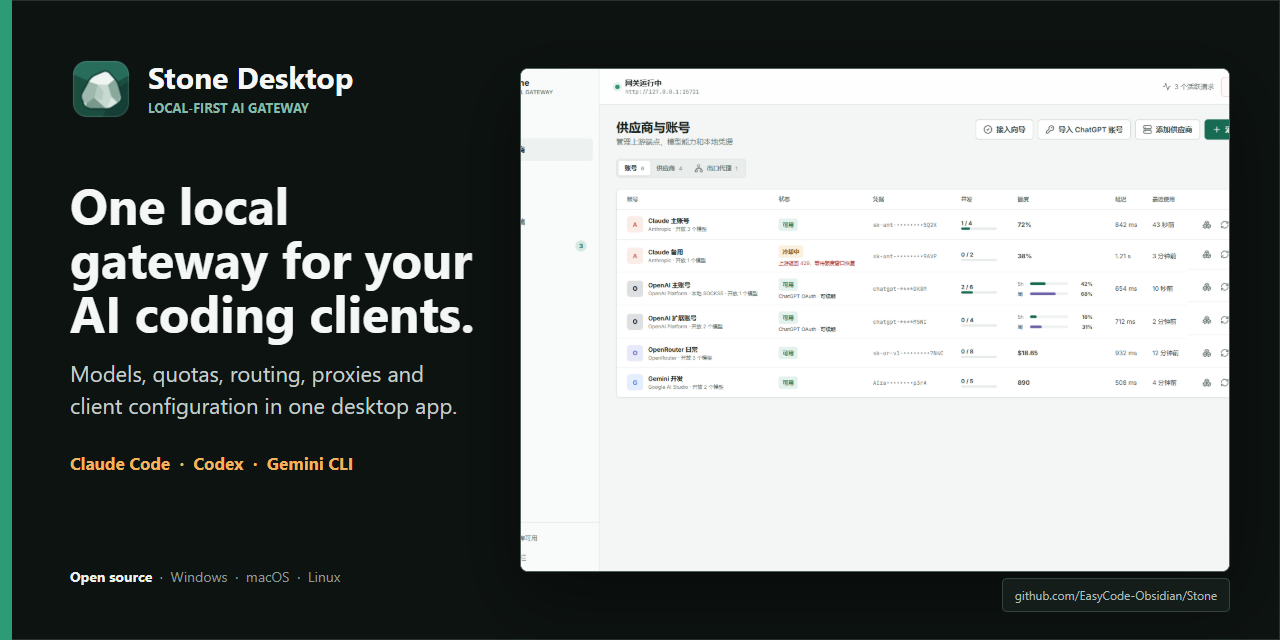
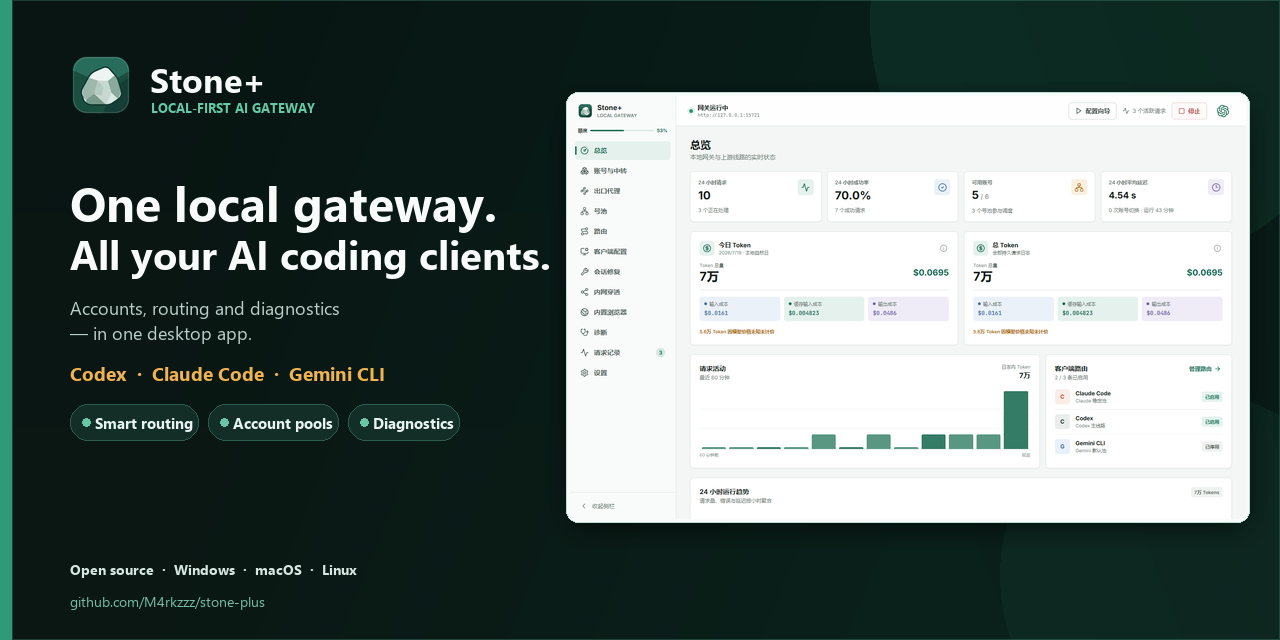
fix(docs): brand social preview as Stone+

diff --git a/scripts/generate-social-preview.py b/scripts/generate-social-preview.py
@@ -1,0 +1,136 @@
+"""Generate the Stone+ GitHub social preview from repository brand assets.
+
+Requires Pillow and writes docs/media/social-preview.png at 1280x640.
+"""
+
+from pathlib import Path
+
+from PIL import Image, ImageDraw, ImageFilter, ImageFont
+
+
+ROOT = Path(__file__).resolve().parents[1]
+OUTPUT = ROOT / "docs" / "media" / "social-preview.png"
+WIDTH, HEIGHT = 1280, 640
+
+
+def font(name: str, size: int) -> ImageFont.FreeTypeFont:
+    windows_fonts = Path("C:/Windows/Fonts")
+    candidates = {
+        "regular": [windows_fonts / "segoeui.ttf", windows_fonts / "msyh.ttc"],
+        "bold": [windows_fonts / "segoeuib.ttf", windows_fonts / "msyhbd.ttc"],
+    }[name]
+    for candidate in candidates:
+        if candidate.exists():
+            return ImageFont.truetype(str(candidate), size)
+    return ImageFont.load_default(size=size)
+
+
+def rounded_mask(size: tuple[int, int], radius: int) -> Image.Image:
+    mask = Image.new("L", size, 0)
+    ImageDraw.Draw(mask).rounded_rectangle((0, 0, size[0] - 1, size[1] - 1), radius, fill=255)
+    return mask
+
+
+def fit_inside(image: Image.Image, size: tuple[int, int]) -> Image.Image:
+    copy = image.copy()
+    copy.thumbnail(size, Image.Resampling.LANCZOS)
+    return copy
+
+
+def draw_pill(draw: ImageDraw.ImageDraw, xy: tuple[int, int], text: str) -> int:
+    text_font = font("bold", 15)
+    left, top = xy
+    bounds = draw.textbbox((0, 0), text, font=text_font)
+    width = bounds[2] - bounds[0] + 30
+    draw.rounded_rectangle(
+        (left, top, left + width, top + 36),
+        radius=18,
+        fill=(20, 48, 41, 230),
+        outline=(52, 112, 93, 180),
+        width=1,
+    )
+    draw.ellipse((left + 12, top + 14, left + 20, top + 22), fill="#69c5a4")
+    draw.text((left + 25, top + 8), text, font=text_font, fill="#e8f4ef")
+    return width
+
+
+def main() -> None:
+    canvas = Image.new("RGB", (WIDTH, HEIGHT), "#091512")
+    pixels = canvas.load()
+
+    # Subtle vertical gradient in Stone+'s deep green palette.
+    for y in range(HEIGHT):
+        blend = y / (HEIGHT - 1)
+        for x in range(WIDTH):
+            side_glow = max(0.0, 1.0 - abs(x - 930) / 760)
+            pixels[x, y] = (
+                int(8 + 3 * blend),
+                int(21 + 9 * side_glow + 3 * blend),
+                int(18 + 7 * side_glow + 2 * blend),
+            )
+
+    draw = ImageDraw.Draw(canvas, "RGBA")
+    draw.rectangle((0, 0, 11, HEIGHT), fill="#2f9a78")
+    draw.rectangle((12, 0, WIDTH - 1, HEIGHT - 1), outline=(89, 156, 134, 75), width=1)
+    draw.ellipse((870, -230, 1370, 270), fill=(45, 145, 111, 30))
+    draw.ellipse((1000, 390, 1370, 760), fill=(33, 102, 81, 34))
+
+    icon = Image.open(ROOT / "build" / "icon.png").convert("RGBA")
+    icon = fit_inside(icon, (62, 62))
+    canvas.paste(icon, (70, 54), icon)
+
+    draw.text((150, 56), "Stone+", font=font("bold", 34), fill="#f7fbf9")
+    draw.text((151, 98), "LOCAL-FIRST AI GATEWAY", font=font("bold", 13), fill="#65c9a6")
+
+    draw.text((70, 170), "One local gateway.", font=font("bold", 48), fill="#f8fbfa")
+    draw.text((70, 226), "All your AI coding clients.", font=font("bold", 40), fill="#f8fbfa")
+    draw.text(
+        (70, 295),
+        "Accounts, routing and diagnostics",
+        font=font("regular", 18),
+        fill="#bbcec7",
+    )
+    draw.text((70, 320), "— in one desktop app.", font=font("regular", 18), fill="#bbcec7")
+    draw.text((70, 360), "Codex  ·  Claude Code  ·  Gemini CLI", font=font("bold", 19), fill="#f0b34f")
+
+    pill_x = 70
+    for label in ("Smart routing", "Account pools", "Diagnostics"):
+        pill_x += draw_pill(draw, (pill_x, 404), label) + 10
+
+    draw.text((70, 559), "Open source  ·  Windows  ·  macOS  ·  Linux", font=font("bold", 14), fill="#d7e7e1")
+    draw.text((70, 591), "github.com/M4rkzzz/stone-plus", font=font("regular", 14), fill="#75bea5")
+
+    screenshot = Image.open(ROOT / "docs" / "screenshots" / "overview.png").convert("RGB")
+    screenshot = fit_inside(screenshot, (676, 470))
+    shot_x, shot_y = 570, 96
+
+    shadow = Image.new("RGBA", (screenshot.width + 44, screenshot.height + 44), (0, 0, 0, 0))
+    ImageDraw.Draw(shadow).rounded_rectangle(
+        (22, 22, screenshot.width + 21, screenshot.height + 21),
+        radius=15,
+        fill=(0, 0, 0, 165),
+    )
+    shadow = shadow.filter(ImageFilter.GaussianBlur(14))
+    canvas.paste(shadow, (shot_x - 22, shot_y - 14), shadow)
+
+    frame = Image.new("RGBA", (screenshot.width + 8, screenshot.height + 8), (247, 251, 249, 255))
+    frame_mask = rounded_mask(frame.size, 12)
+    frame.putalpha(frame_mask)
+    canvas.paste(frame, (shot_x - 4, shot_y - 4), frame)
+
+    screenshot_mask = rounded_mask(screenshot.size, 9)
+    canvas.paste(screenshot, (shot_x, shot_y), screenshot_mask)
+    draw.rounded_rectangle(
+        (shot_x - 4, shot_y - 4, shot_x + screenshot.width + 3, shot_y + screenshot.height + 3),
+        radius=12,
+        outline=(136, 192, 173, 130),
+        width=1,
+    )
+
+    OUTPUT.parent.mkdir(parents=True, exist_ok=True)
+    canvas.save(OUTPUT, "PNG", optimize=True)
+    print(f"Wrote {OUTPUT} ({WIDTH}x{HEIGHT})")
+
+
+if __name__ == "__main__":
+    main()